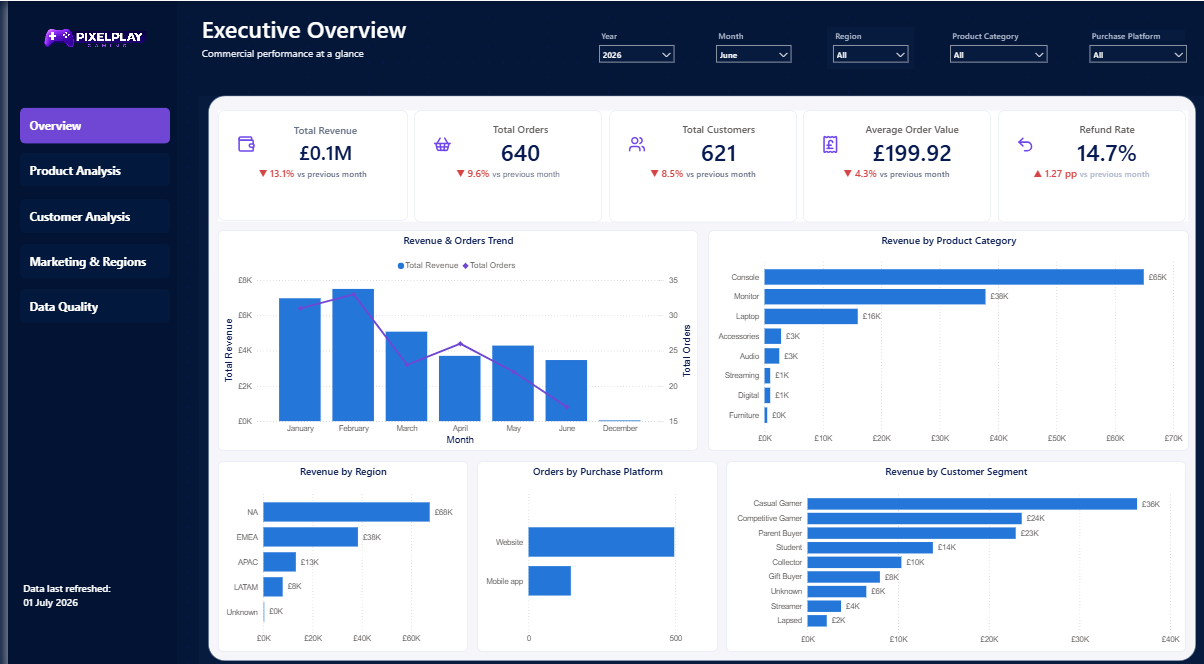
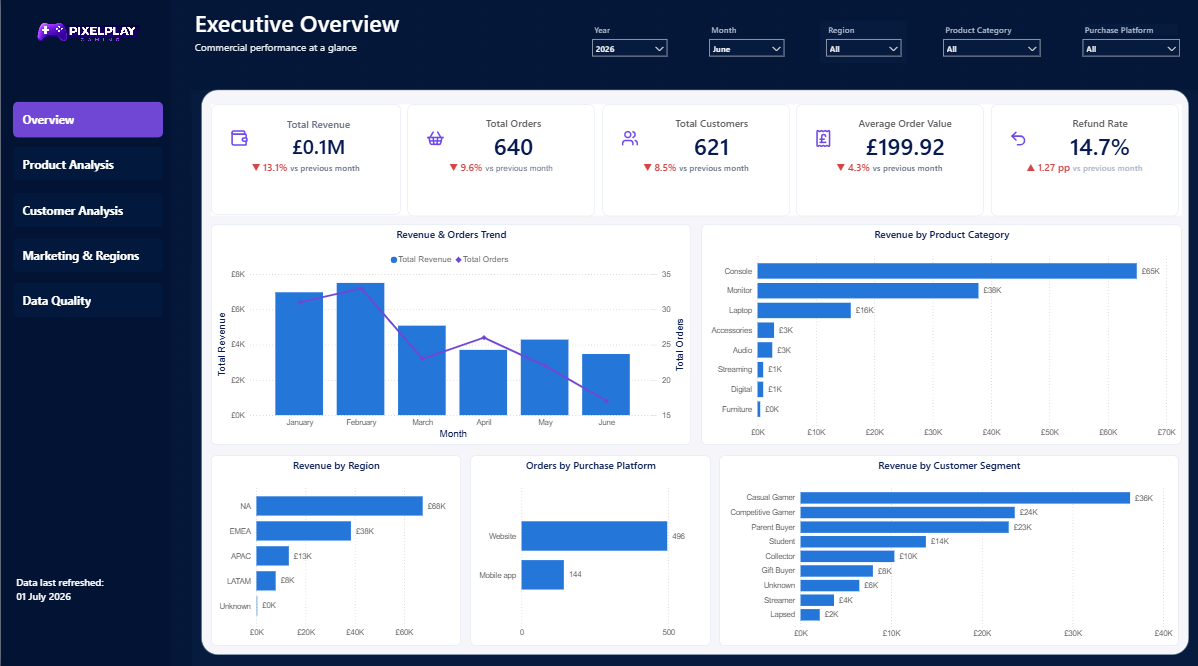
error fixed

diff --git a/README.md b/README.md
@@ -4,7 +4,7 @@
 
 ## Executive Summary
 
-PixelPlay Gaming's June 2026 performance weakened across every headline KPI. Revenue fell to £127.3K, down 13.1% month on month, while orders declined 9.6% and customers fell 8.5%. Average order value also decreased 4.1% to £200.23, showing that the decline was driven by both lower transaction volume and reduced spend per order. At the same time, the refund rate increased 1.27 percentage points to 14.7%, adding further pressure to retained revenue.
+PixelPlay Gaming's June 2026 performance weakened across every headline KPI. Revenue fell to £127.3K, down 13.1% month on month, while orders declined 9.6% and customers fell 8.5%. Average order value also decreased 4.3% to £199.92, showing that the decline was driven by both lower transaction volume and reduced spend per order. At the same time, the refund rate increased 1.27 percentage points to 14.7%, adding further pressure to retained revenue.
 
 The wider trend also warrants attention: revenue peaked in February and then declined for four consecutive months through June. Performance is highly concentrated, with Console and Monitor generating 81% of revenue, NA and EMEA contributing 83% of regional revenue, and the Direct channel and Website platform accounting for the largest shares of channel and platform revenue.
 
@@ -13,7 +13,7 @@ The wider trend also warrants attention: revenue peaked in February and then dec
 ### Commercial Performance
 - June revenue declined to £127.3K, down 13.1% month on month, alongside a 9.6% fall in orders and an 8.5% reduction in customers.
 
-- Average order value decreased 4.1% to £200.23, meaning weaker revenue performance reflected both lower order volume and reduced spend per transaction.
+- Average order value decreased 4.3% to £199.92, meaning weaker revenue performance reflected both lower order volume and reduced spend per transaction.
 
 - Revenue peaked in February and then declined for four consecutive months through June, suggesting a sustained slowdown rather than a single weak period.
 ### Product Concentration & Refund Risk
